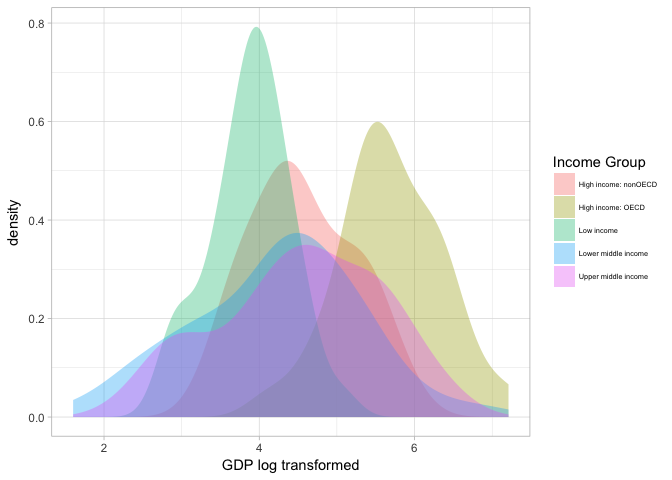
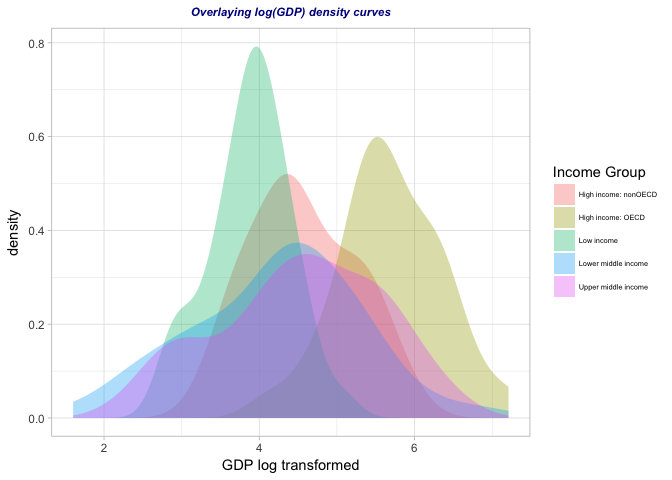
Added more description for the code and analysis

diff --git a/Paper/Report.md b/Paper/Report.md
@@ -147,7 +147,7 @@ Question 2:
 
 Before we sort the data frame, we need to fix the following problems with the merged data set: \* Remove NA's from GDP and Ranking columns. \* Format the GDP data by removing commas "," \* Convert GDP data to numeric.
 
-The `gdpRank()` function in the `Analysis.R` script displays the n-th smallest economy.
+The `gdpRank()` function in the `Analysis.R` script displays the n-th smallest economy. The dataframe is sorted based on the GDP column in ascending order.
 
 ``` r
 paste("The 13th smallest GDP country is: ", gdpRank(13))
@@ -155,12 +155,14 @@ paste("The 13th smallest GDP country is: ", gdpRank(13))
 
     ## [1] "The 13th smallest GDP country is:  St. Kitts and Nevis"
 
+The 13th smallest GDP country is: **"St Kitts and Nevis"**
+
 Question 3:
 -----------
 
 > What are the average GDP rankings for the "High income: OECD" and "High income: nonOECD" groups?
 
-The `groupRankAverages()` function in the `Analysis.R` script displays the average GDP Ranking of a given income group.
+The `groupRankAverages()` function in the `Analysis.R` script displays the average GDP Ranking by income group. The resulting dataframe is then grep'ed for income groups ending in OECD.
 
 ``` r
 grpAvgs <- groupRankAverages()
@@ -173,10 +175,14 @@ grpAvgs[grepl(".*OECD$", grpAvgs$`Income Group`),]
     ## 1 High income: nonOECD 91.91304
     ## 2    High income: OECD 32.96667
 
+The average GDP Ranking for *High income: nonOECD* is: 91.91304 The average GDP Ranking for *High income: OECD* is: 32.96667
+
 Question 4:
 -----------
 
 > Show the distribution of GDP value for all the countries and color plots by income group. Use ggplot2 to create your plot.
+
+The distribution of GDP value is right skewed, a log transformation is required to visualize the distribution of GDP value. The below plot shows how the log transformed GDP density looks like. The `Emperical` line represents the distribution of GDP value based on the current data set values. The `Theoritical` line represents the theoritical normal curve.
 
 ``` r
 # Draw a density curve
@@ -188,10 +194,16 @@ cols <- c("Emperical"="#f04546","Theoritical"="#3591d1")
     geom_density(aes(col = "Emperical")) +
     stat_function(fun = dnorm, args = fun_args, aes(col = "Theoritical")) + 
     theme_classic() +
-    scale_color_manual(name = "Normal Curves", values = cols)
+    scale_color_manual(name = "Normal Curves", values = cols) +
+    labs(x = "log GDP") +
+    ggtitle("Log transformed GDP density plot") +
+    theme(plot.title = element_text(hjust = 0.5, face="bold.italic",
+                                    size = rel(0.8), color = "darkblue"))
 ```
 
 ![](Report_files/figure-markdown_github/unnamed-chunk-8-1.png)
+
+A histogram of count vs log(GDP) grouped by the Income groups reveals at a glance that there are more countries which fall into lower middle income than any other group.
 
 ``` r
   # Draw the histogram of count vs log10(GDP) faceted by Income Groups
@@ -201,10 +213,15 @@ cols <- c("Emperical"="#f04546","Theoritical"="#3591d1")
     facet_grid(.~ factor(`Income Group`)) + 
     theme_dark() +
     theme(legend.position = "none", strip.text = element_text(size = rel(0.5))) +
-    labs(x = "log10(Gdp)")
+    labs(x = "log10(Gdp)") +
+    ggtitle("Count vs log GDP faceted by Income Groups") +
+    theme(plot.title = element_text(hjust = 0.5, face="bold.italic",
+                                    size = rel(0.8), color = "darkblue"))
 ```
 
 ![](Report_files/figure-markdown_github/unnamed-chunk-9-1.png)
+
+Overlaying the density plots of log GDP values of Income Groups gives us a clear picture of where each group is centered. Interestingly, the *lower middle income* and *upper middle income* are centered very closely and have similar distributions.
 
 ``` r
   # Overlay multiple density plots
@@ -213,10 +230,15 @@ cols <- c("Emperical"="#f04546","Theoritical"="#3591d1")
     theme_light() +
     theme(legend.text = element_text(size=rel(0.5))) + 
     labs(x = "GDP log transformed") +
-    scale_fill_discrete(name = "Income Group")
+    scale_fill_discrete(name = "Income Group") +
+    ggtitle("Overlaying log(GDP) density curves") +
+    theme(plot.title = element_text(hjust = 0.5, face="bold.italic",
+                                    size = rel(0.8), color = "darkblue"))
 ```
 
 ![](Report_files/figure-markdown_github/unnamed-chunk-10-1.png)
+
+Displaying the mean and 1 standard deviation of the distribution of log(GDP) values within each group shows which group has the highest and lowest spread of values. As we can see here, the *lower middle income* group has the widest spread, whereas the *low income* group has the narrowest spread.
 
 ``` r
   # Display mean and 1 sd
@@ -226,10 +248,15 @@ cols <- c("Emperical"="#f04546","Theoritical"="#3591d1")
                  fun.args = list(mult = 1), col = "blue", width = 0.1) +
     theme_light() +
     theme(axis.text = element_text(angle = 45, hjust = c(1), size = rel(0.6))) +
-    labs(x = "Income Groups")
+    labs(x = "Income Groups") + 
+    ggtitle("Mean and 1 SD from mean") +
+    theme(plot.title = element_text(hjust = 0.5, face="bold.italic",
+                                    size = rel(0.8), color = "darkblue"))
 ```
 
 ![](Report_files/figure-markdown_github/unnamed-chunk-11-1.png)
+
+Five number summaries using Boxplots reveal the spread and distribution of the log(GDP) values within and between income groups. The *blue* dots here represent the actual values within each group.
 
 ``` r
   # Box plots with data overlayed to get an idea of the distribution of GDP
@@ -238,15 +265,22 @@ cols <- c("Emperical"="#f04546","Theoritical"="#3591d1")
     geom_boxplot(outlier.size=0, alpha=0.2) +
     theme_light() +
     theme(axis.text = element_text(angle = 45, hjust = c(1), size = rel(0.6))) +
-    labs(x = "Income Groups")
+    labs(x = "Income Groups") +
+    ggtitle("Boxplot overlayed with actual values") +
+    theme(plot.title = element_text(hjust = 0.5, face="bold.italic",
+                                    size = rel(0.8), color = "darkblue"))
 ```
 
 ![](Report_files/figure-markdown_github/unnamed-chunk-12-1.png)
+
+All the above plots are different ways in which we can visualize the distribution of GDP values within and between the income groups.
 
 Question 5:
 -----------
 
 > Provide summary statistics of GDP by income groups.
+
+A quick and easy way to obtain group-wise summary statistics is by using the `psych` package. `describeBy` function in this package, takes a continuous variable and a categorical variable and provides descriptive statistics by group. The argument `mat=TRUE` displays the results in a matrix format.
 
 ``` r
 # Descriptive statistics using psych package.
@@ -274,6 +308,9 @@ Question 6:
 
 > Cut the GDP ranking into 5 separate quantile groups. Make a table versus Income Group. How many countries are Lower middle income but among the 38 nations with highest GDP?
 
+The `quantileCut` function from the `lsr` package works much the same way as the base R's `cut` function. However, it differs from the `cut` function in the manner in which it calculates the quantile groups. The `quantileCut` uses the `quantile` function to calculate the groups.
+By default, `quantileCut` divides the Ranking column into the following quantile groups: `Levels: (0.811,38.6] (38.6,76.2] (76.2,114] (114,152] (152,190]`. Labels Q1-5 are assigned to these levels. We then use the `dplyr` package's `mutate`, `filter` and `select` functions to tabulate the data.
+
 ``` r
 # QuantileCut to divide the GDP rankings into 5 quantile groups
   gdpEducTemp <- gdpEduc
@@ -292,3 +329,8 @@ Question 6:
     ## 3         IDN        Indonesia      16 Lower middle income        Q1
     ## 4         THA         Thailand      31 Lower middle income        Q1
     ## 5         EGY Egypt, Arab Rep.      38 Lower middle income        Q1
+
+There are **5** countries which are lower middle income but fall amoung the 38 nations with highest GDP
+
+Conclusion:
+===========
